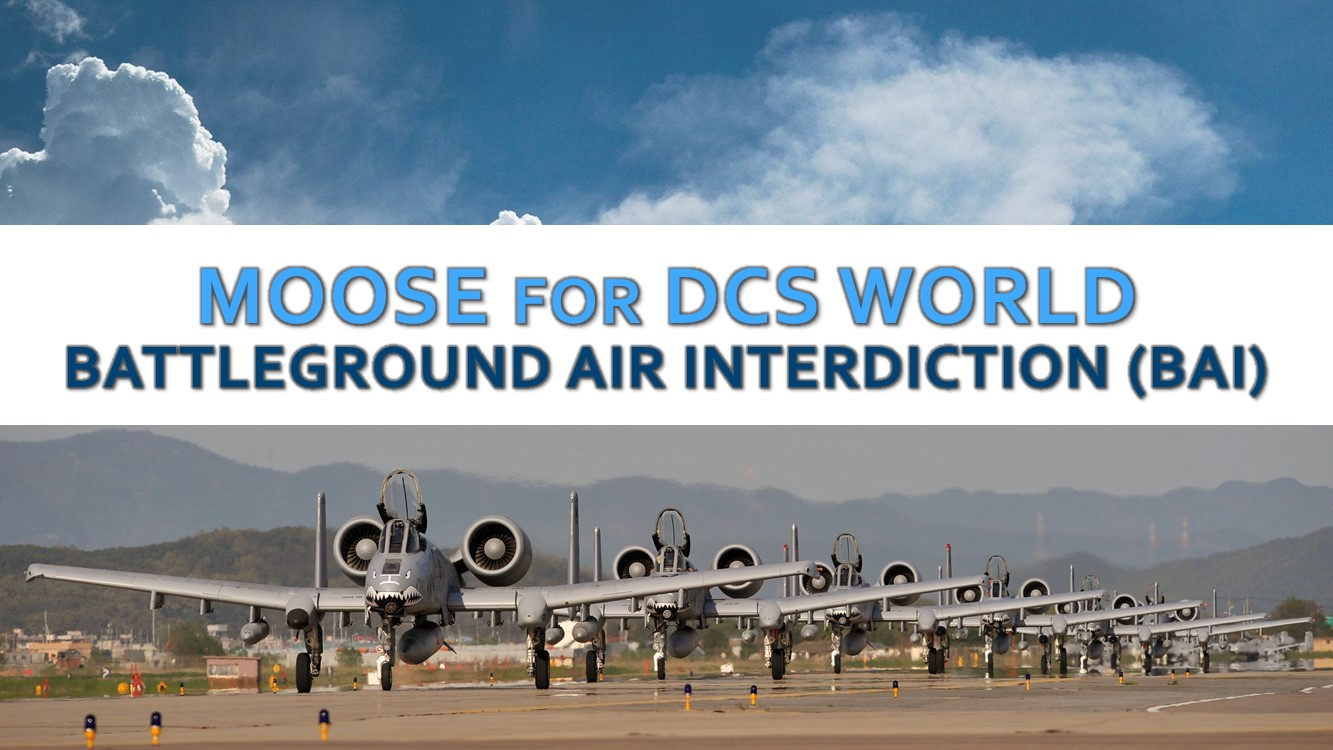
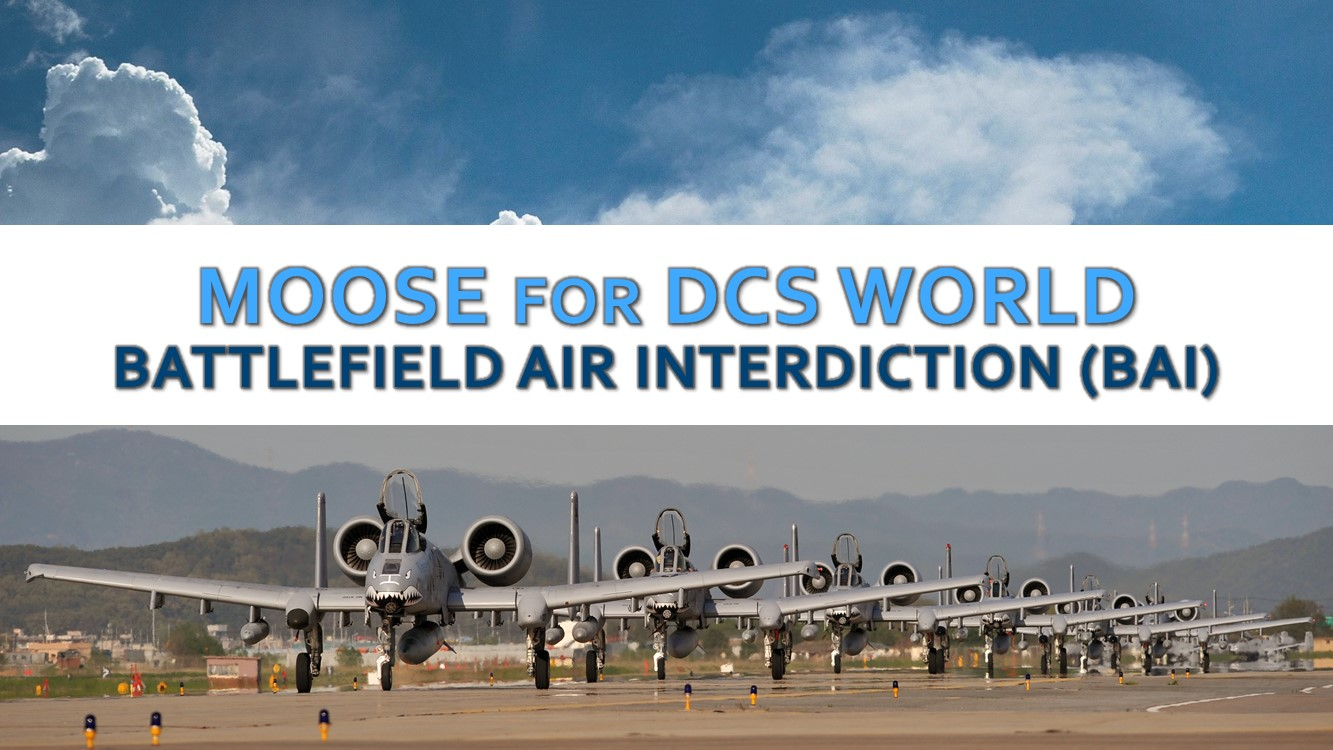
Doc Update

Changed region(s): [[0.0308, 0.46, 0.9535, 0.552]]

diff --git a/source/includes/Wrapper.Controllable.md b/source/includes/Wrapper.Controllable.md
@@ -32,9 +32,9 @@ This is different from the EnRoute tasks, where the targets of the task need to 
 Find below a list of the **assigned task** methods:
 
 * [CONTROLLABLE:TaskAttackGroup()](#controllable-taskattackgroup-attackgroup-weapontype-weaponexpend-attackqty-direction-altitude-attackqtylimit): (AIR) Attack a Controllable.
-* [CONTROLLABLE:TaskAttackMapObject()](#controllable-taskattackmapobject-vec2-weapontype-weaponexpend-attackqty-direction-controllableattack): (AIR) Attacking the map object (building, structure, e.t.c).
+* [CONTROLLABLE:TaskAttackMapObject()](#controllable-taskattackmapobject-vec2-groupattack-weaponexpend-attackqty-direction-altitude-weapontype): (AIR) Attacking the map object (building, structure, e.t.c).
 * [CONTROLLABLE:TaskAttackUnit()](#controllable-taskattackunit-attackunit-groupattack-weaponexpend-attackqty-direction-altitude-visible-weapontype): (AIR) Attack the Unit.
-* [CONTROLLABLE:TaskBombing()](#controllable-taskbombing-vec2-groupattack-weaponexpend-attackqty-direction-weapontype): (AIR) Delivering weapon at the point on the ground.
+* [CONTROLLABLE:TaskBombing()](#controllable-taskbombing-vec2-groupattack-weaponexpend-attackqty-direction-altitude-weapontype): (AIR) Delivering weapon at the point on the ground.
 * [CONTROLLABLE:TaskBombingRunway()](#controllable-taskbombingrunway-airbase-weapontype-weaponexpend-attackqty-direction-controllableattack): (AIR) Delivering weapon on the runway.
 * [CONTROLLABLE:TaskEmbarking()](#controllable-taskembarking-point-duration-embarkingcontrollable): (AIR) Move the controllable to a Vec2 Point, wait for a defined duration and embark a controllable.
 * [CONTROLLABLE:TaskEmbarkToTransport()](#controllable-taskembarktotransport-point-radius): (GROUND) Embark to a Transport landed at a location.
@@ -368,18 +368,37 @@ self
 * Dcs.DCSTasking.Task#Task  The DCS task structure.
 
 
-### CONTROLLABLE:TaskBombing(Vec2, GroupAttack, WeaponExpend, AttackQty, Direction, WeaponType)
+### CONTROLLABLE:TaskBombing(Vec2, GroupAttack, WeaponExpend, AttackQty, Direction, Altitude, WeaponType)
 (AIR) Delivering weapon at the point on the ground.
 
 <h4> Parameters </h4>
 * [CONTROLLABLE](#controllable-class-)
 self
 * [Vec2](#vec2-class-) Vec2 : 2D-coordinates of the point to deliver weapon at.
-* <u>Boolean</u> GroupAttack : (optional) Flag indicates that the target must be engaged by all aircrafts of the group. Has effect only if the task is assigned to a group, not to a single aircraft.
+* <u>Boolean</u> GroupAttack : (optional) If true, all units in the group will attack the Unit when found.
 * [AI.Task.WeaponExpend](#ai.task.weaponexpend-class-) WeaponExpend : (optional) Determines how much weapon will be released at each attack. If parameter is not defined the unit / controllable will choose expend on its own discretion.
-* <u>Number</u> AttackQty : (optional) Desired quantity of passes. The parameter is not the same in AttackGroup and AttackUnit tasks.
+* <u>Number</u> AttackQty : (optional) This parameter limits maximal quantity of attack. The aicraft/controllable will not make more attack than allowed even if the target controllable not destroyed and the aicraft/controllable still have ammo. If not defined the aircraft/controllable will attack target until it will be destroyed or until the aircraft/controllable will run out of ammo.
 * [Azimuth](#azimuth-class-) Direction : (optional) Desired ingress direction from the target to the attacking aircraft. Controllable/aircraft will make its attacks from the direction. Of course if there is no way to attack from the direction due the terrain controllable/aircraft will choose another direction.
-* <u>Number</u> WeaponType : (optional) Bitmask of weapon types those allowed to use. If parameter is not defined that means no limits on weapon usage.
+* <u>Number</u> Altitude : (optional) The altitude from where to attack.
+* <u>Number</u> WeaponType : (optional) The WeaponType.
+
+<h4> Returns </h4>
+* Dcs.DCSTasking.Task#Task  The DCS task structure.
+
+
+### CONTROLLABLE:TaskAttackMapObject(Vec2, GroupAttack, WeaponExpend, AttackQty, Direction, Altitude, WeaponType)
+(AIR) Attacking the map object (building, structure, e.t.c).
+
+<h4> Parameters </h4>
+* [CONTROLLABLE](#controllable-class-)
+self
+* [Vec2](#vec2-class-) Vec2 : 2D-coordinates of the point to deliver weapon at.
+* <u>Boolean</u> GroupAttack : (optional) If true, all units in the group will attack the Unit when found.
+* [AI.Task.WeaponExpend](#ai.task.weaponexpend-class-) WeaponExpend : (optional) Determines how much weapon will be released at each attack. If parameter is not defined the unit / controllable will choose expend on its own discretion.
+* <u>Number</u> AttackQty : (optional) This parameter limits maximal quantity of attack. The aicraft/controllable will not make more attack than allowed even if the target controllable not destroyed and the aicraft/controllable still have ammo. If not defined the aircraft/controllable will attack target until it will be destroyed or until the aircraft/controllable will run out of ammo.
+* [Azimuth](#azimuth-class-) Direction : (optional) Desired ingress direction from the target to the attacking aircraft. Controllable/aircraft will make its attacks from the direction. Of course if there is no way to attack from the direction due the terrain controllable/aircraft will choose another direction.
+* <u>Number</u> Altitude : (optional) The altitude from where to attack.
+* <u>Number</u> WeaponType : (optional) The WeaponType.
 
 <h4> Returns </h4>
 * Dcs.DCSTasking.Task#Task  The DCS task structure.
@@ -425,23 +444,6 @@ self
 <h4> Returns </h4>
 * [CONTROLLABLE](#controllable-class-)
 
-
-
-### CONTROLLABLE:TaskAttackMapObject(Vec2, WeaponType, WeaponExpend, AttackQty, Direction, ControllableAttack)
-(AIR) Attacking the map object (building, structure, e.t.c).
-
-<h4> Parameters </h4>
-* [CONTROLLABLE](#controllable-class-)
-self
-* [Vec2](#vec2-class-) Vec2 : 2D-coordinates of the point the map object is closest to. The distance between the point and the map object must not be greater than 2000 meters. Object id is not used here because Mission Editor doesn't support map object identificators.
-* <u>Number</u> WeaponType : (optional) Bitmask of weapon types those allowed to use. If parameter is not defined that means no limits on weapon usage.
-* [AI.Task.WeaponExpend](#ai.task.weaponexpend-class-) WeaponExpend : (optional) Determines how much weapon will be released at each attack. If parameter is not defined the unit / controllable will choose expend on its own discretion.
-* <u>Number</u> AttackQty : (optional) This parameter limits maximal quantity of attack. The aicraft/controllable will not make more attack than allowed even if the target controllable not destroyed and the aicraft/controllable still have ammo. If not defined the aircraft/controllable will attack target until it will be destroyed or until the aircraft/controllable will run out of ammo.
-* [Azimuth](#azimuth-class-) Direction : (optional) Desired ingress direction from the target to the attacking aircraft. Controllable/aircraft will make its attacks from the direction. Of course if there is no way to attack from the direction due the terrain controllable/aircraft will choose another direction.
-* <u>Boolean</u> ControllableAttack : (optional) Flag indicates that the target must be engaged by all aircrafts of the controllable. Has effect only if the task is assigned to a controllable, not to a single aircraft.
-
-<h4> Returns </h4>
-* Dcs.DCSTasking.Task#Task  The DCS task structure.
 
 
 ### CONTROLLABLE:TaskBombingRunway(Airbase, WeaponType, WeaponExpend, AttackQty, Direction, ControllableAttack)

diff --git a/source/includes/AI.AI_BAI.md b/source/includes/AI.AI_BAI.md
@@ -1,5 +1,5 @@
 # AI.AI_BAI Module
-**AI** -- **Provide Battleground Air Interdiction (bombing).**
+**AI** -- **Provide Battlefield Air Interdiction (bombing).**
 
 ![Banner Image](/includes/Pictures/AI_BAI/Dia1.JPG)
 
@@ -145,6 +145,18 @@ When the fuel treshold has been reached, the airplane will fly towards the neare
 * **AI_BAI_ZONE-Destroy-**: The AI has destroyed a target [Unit](#unit-module-).
 * **AI_BAI_ZONE-Destroyed-**: The AI has destroyed all target [Unit](#unit-module-)s assigned in the BOMB task.
 * **Status**: The AI is checking status (fuel and damage). When the tresholds have been reached, the AI will RTB.
+
+#####  3. Modify the Engage Zone behaviour to pinpoint a **map object** or **scenery object**
+
+Use the method AI_BAI_ZONE-SearchOff- to specify that the EngageZone is not to be searched for potential targets (UNITs), but that the center of the zone
+is the point where a map object is to be destroyed (like a bridge).
+
+Example:
+
+-- Tell the BAI not to search for potential targets in the BAIEngagementZone, but rather use the center of the BAIEngagementZone as the bombing location.
+AIBAIZone:SearchOff()
+
+Searching can be switched back on with the method AI_BAI_ZONE-SearchOn-. Use the method AI_BAI_ZONE-SearchOnOff- to flexibily switch searching on or off.
 
 
 
@@ -416,6 +428,43 @@ Set the Engage Zone where the AI is performing BOMB. Note that if the EngageZone
 * [AI_BAI_ZONE](#ai_bai_zone-class-)
 self
 * [ZONE](#zone-class-) EngageZone : The zone where the AI is performing BOMB.
+
+<h4> Returns </h4>
+* [AI_BAI_ZONE](#ai_bai_zone-class-)
+
+
+
+### AI_BAI_ZONE:SearchOnOff()
+Specifies whether to search for potential targets in the zone, or let the center of the zone be the bombing coordinate.
+AI_BAI_ZONE will search for potential targets by default.
+
+<h4> Parameters </h4>
+* [AI_BAI_ZONE](#ai_bai_zone-class-)
+self
+
+<h4> Returns </h4>
+* [AI_BAI_ZONE](#ai_bai_zone-class-)
+
+
+
+### AI_BAI_ZONE:SearchOff()
+If Search is Off, the current zone coordinate will be the center of the bombing.
+
+<h4> Parameters </h4>
+* [AI_BAI_ZONE](#ai_bai_zone-class-)
+self
+
+<h4> Returns </h4>
+* [AI_BAI_ZONE](#ai_bai_zone-class-)
+
+
+
+### AI_BAI_ZONE:SearchOn()
+If Search is On, BAI will search for potential targets in the zone.
+
+<h4> Parameters </h4>
+* [AI_BAI_ZONE](#ai_bai_zone-class-)
+self
 
 <h4> Returns </h4>
 * [AI_BAI_ZONE](#ai_bai_zone-class-)
